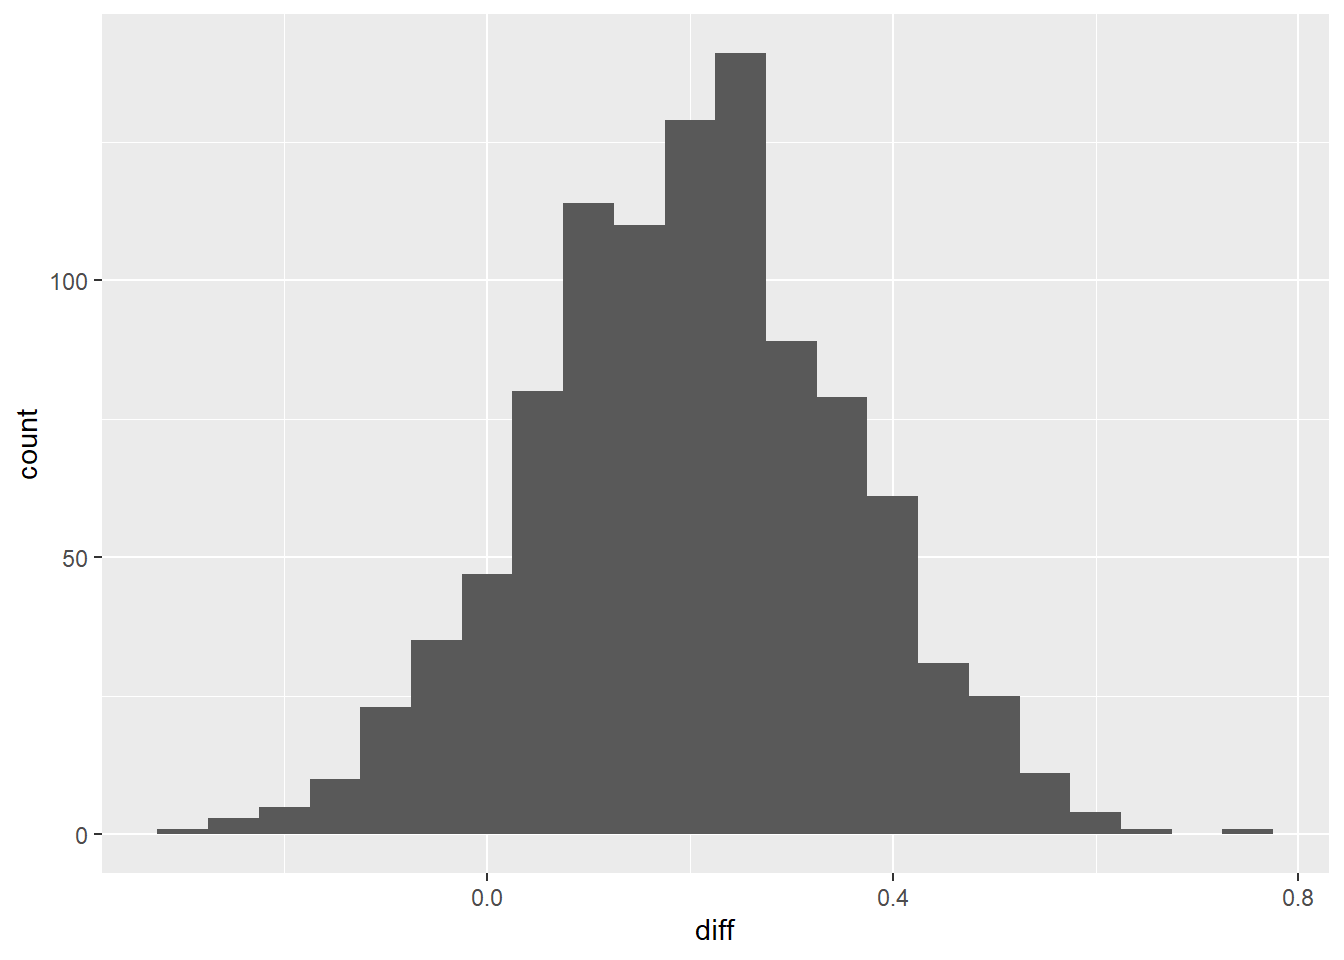
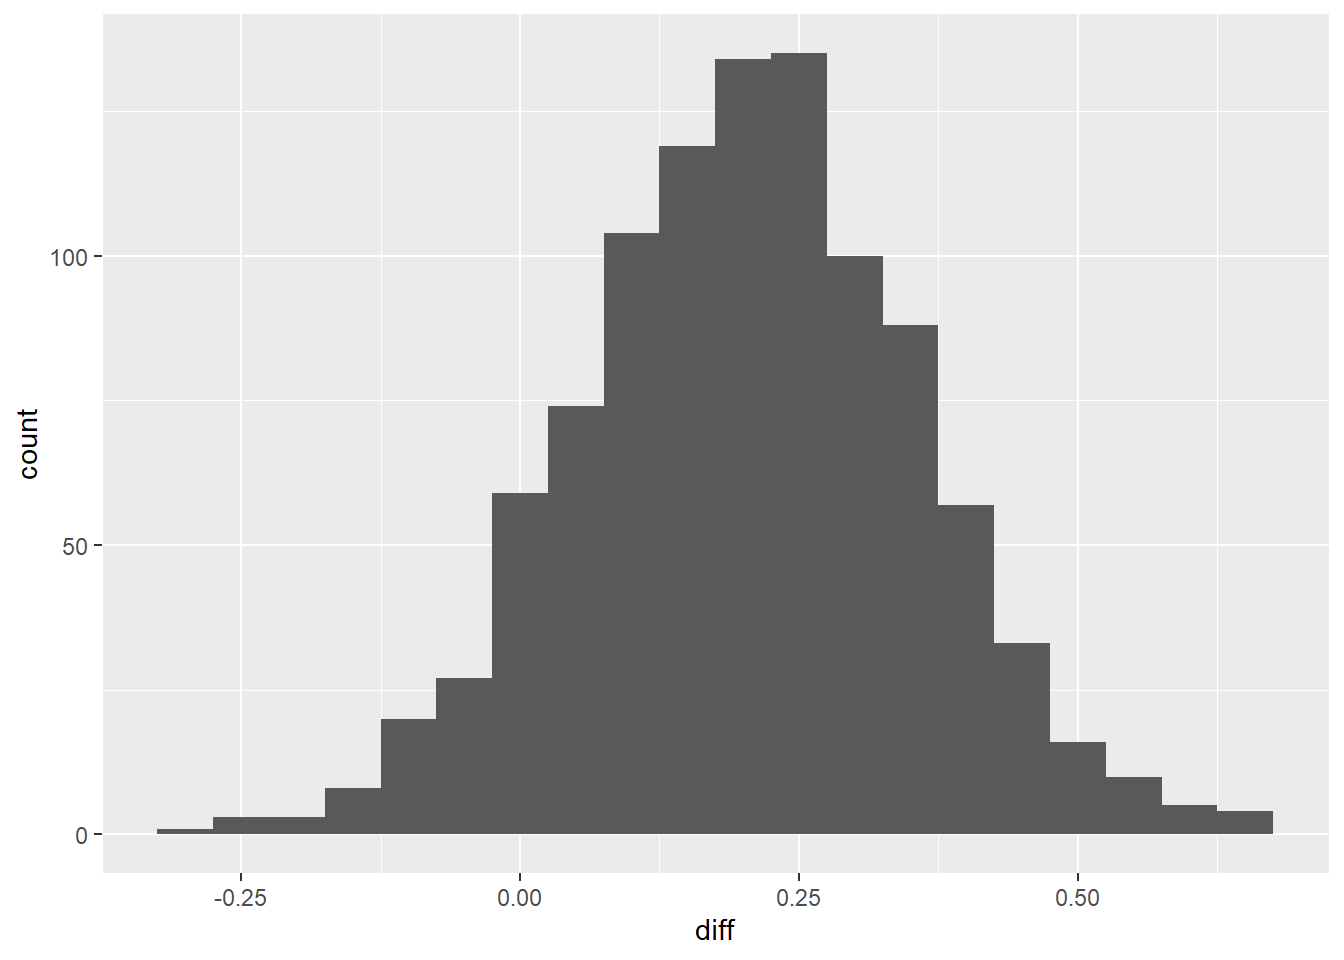
more spacing

diff --git a/docs/Section 2 Proportions.html b/docs/Section 2 Proportions.html
@@ -394,11 +394,11 @@ window.Quarto = {
 <span id="cb7-5"><a href="#cb7-5" aria-hidden="true" tabindex="-1"></a><span class="fu">head</span>(boot.sample)</span></code></pre></div><button title="Copy to Clipboard" class="code-copy-button"><i class="bi"></i></button></div>
 <div class="cell-output cell-output-stdout">
 <pre><code>  sim   stat
-1   1 0.5625
-2   2 0.5625
-3   3 0.2500
-4   4 0.6875
-5   5 0.3750
+1   1 0.7500
+2   2 0.6250
+3   3 0.5625
+4   4 0.5000
+5   5 0.5625
 6   6 0.3750</code></pre>
 </div>
 </div>
@@ -761,13 +761,13 @@ window.Quarto = {
 <div class="code-copy-outer-scaffold"><div class="sourceCode cell-code" id="cb25"><pre class="sourceCode r code-with-copy"><code class="sourceCode r"><span id="cb25-1"><a href="#cb25-1" aria-hidden="true" tabindex="-1"></a>malaria.null<span class="ot">&lt;-</span><span class="fu">do</span>(<span class="dv">1000</span>)<span class="sc">*</span><span class="fu">diffmean</span>(Response <span class="sc">==</span> <span class="st">"Malaria"</span> <span class="sc">~</span> <span class="fu">shuffle</span>(Treatment),<span class="at">data=</span>malariadf)</span>
 <span id="cb25-2"><a href="#cb25-2" aria-hidden="true" tabindex="-1"></a><span class="fu">head</span>(malaria.null)</span></code></pre></div><button title="Copy to Clipboard" class="code-copy-button"><i class="bi"></i></button></div>
 <div class="cell-output cell-output-stdout">
-<pre><code>      diffmean
-1 -0.058335663
-2 -0.017426149
-3 -0.048108284
-4  0.003028609
-5 -0.017426149
-6  0.003028609</code></pre>
+<pre><code>     diffmean
+1 -0.02765353
+2  0.09507502
+3  0.01325599
+4 -0.02765353
+5 -0.04810828
+6 -0.00719877</code></pre>
 </div>
 </div>
 <p>We’ll plot the null distribution, and to do this we’ll need the <code>ggplot2</code> library.</p>
@@ -861,12 +861,12 @@ window.Quarto = {
 <span id="cb35-9"><a href="#cb35-9" aria-hidden="true" tabindex="-1"></a><span class="fu">head</span>(boot.samples)</span></code></pre></div><button title="Copy to Clipboard" class="code-copy-button"><i class="bi"></i></button></div>
 <div class="cell-output cell-output-stdout">
 <pre><code>  sim stat_E stat_C diff
-1   1   0.60   0.20   NA
-2   2   0.35   0.25   NA
-3   3   0.65   0.20   NA
-4   4   0.60   0.40   NA
-5   5   0.50   0.25   NA
-6   6   0.60   0.35   NA</code></pre>
+1   1   0.60   0.45   NA
+2   2   0.45   0.35   NA
+3   3   0.35   0.25   NA
+4   4   0.45   0.45   NA
+5   5   0.30   0.40   NA
+6   6   0.65   0.35   NA</code></pre>
 </div>
 <div class="code-copy-outer-scaffold"><div class="sourceCode cell-code" id="cb37"><pre class="sourceCode r code-with-copy"><code class="sourceCode r"><span id="cb37-1"><a href="#cb37-1" aria-hidden="true" tabindex="-1"></a><span class="co">#Now find the differences#</span></span>
 <span id="cb37-2"><a href="#cb37-2" aria-hidden="true" tabindex="-1"></a></span>
@@ -874,13 +874,13 @@ window.Quarto = {
 <span id="cb37-4"><a href="#cb37-4" aria-hidden="true" tabindex="-1"></a></span>
 <span id="cb37-5"><a href="#cb37-5" aria-hidden="true" tabindex="-1"></a><span class="fu">head</span>(boot.samples)</span></code></pre></div><button title="Copy to Clipboard" class="code-copy-button"><i class="bi"></i></button></div>
 <div class="cell-output cell-output-stdout">
-<pre><code>  sim stat_E stat_C diff
-1   1   0.60   0.20 0.40
-2   2   0.35   0.25 0.10
-3   3   0.65   0.20 0.45
-4   4   0.60   0.40 0.20
-5   5   0.50   0.25 0.25
-6   6   0.60   0.35 0.25</code></pre>
+<pre><code>  sim stat_E stat_C  diff
+1   1   0.60   0.45  0.15
+2   2   0.45   0.35  0.10
+3   3   0.35   0.25  0.10
+4   4   0.45   0.45  0.00
+5   5   0.30   0.40 -0.10
+6   6   0.65   0.35  0.30</code></pre>
 </div>
 </div>
 <p>Now let’s plot the bootstrap distribution.</p>
@@ -940,7 +940,7 @@ window.Quarto = {
 <div class="code-copy-outer-scaffold"><div class="sourceCode cell-code" id="cb46"><pre class="sourceCode r code-with-copy"><code class="sourceCode r"><span id="cb46-1"><a href="#cb46-1" aria-hidden="true" tabindex="-1"></a>SE<span class="ot">&lt;-</span><span class="fu">sd</span>(rankdiff)</span>
 <span id="cb46-2"><a href="#cb46-2" aria-hidden="true" tabindex="-1"></a>SE</span></code></pre></div><button title="Copy to Clipboard" class="code-copy-button"><i class="bi"></i></button></div>
 <div class="cell-output cell-output-stdout">
-<pre><code>[1] 0.1562026</code></pre>
+<pre><code>[1] 0.1520223</code></pre>
 </div>
 </div>
 <p><br>
@@ -1007,6 +1007,12 @@ window.Quarto = {
 <div style="page-break-after: always;"></div>
 <p><strong>Example (17.5)</strong>: (Aside: why can’t we do the electrical stimuation example again?). A 2021 Gallup poll surveyed 3941 students pursuing a bachelor’s degree and 2064 students pursuing an associate’s degree. The survey found that 51% of the bachelor’s students (2010) and 44% of the associate’s students (908) said that COVID-19 will negatively impact their ability to complete the degree. We want to decide whether the proportion of bachelor’s students who believe the pandemic will negatively impact degree completion is different from the proportion of associate’s students who believe they will be negatively affected. Let <span class="math inline">\(p_B\)</span> be the proportion of bachelor’s students who believe they’ll be negatively affected and let <span class="math inline">\(p_A\)</span> be the proportion of associate’s students who believe they’ll be negatively affected.</p>
 <p><br>
+<br>
+<br>
+<br>
+<br>
+<br>
+<br>
 <br>
 <br>
 <br>
@@ -1411,7 +1417,7 @@ X-squared = 6.0069, df = 2, p-value = 0.04962</code></pre>
     replicates)
 
 data:  mode
-X-squared = 6.0069, df = NA, p-value = 0.04296</code></pre>
+X-squared = 6.0069, df = NA, p-value = 0.04595</code></pre>
 </div>
 </div>
 
